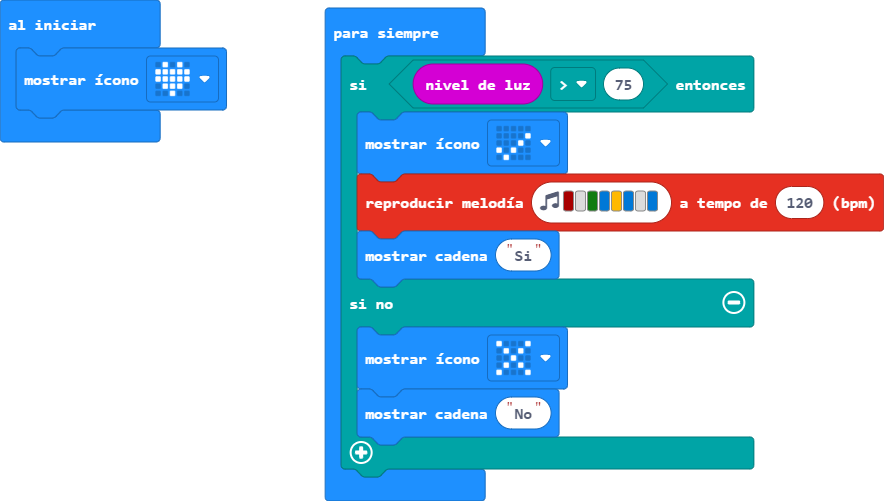
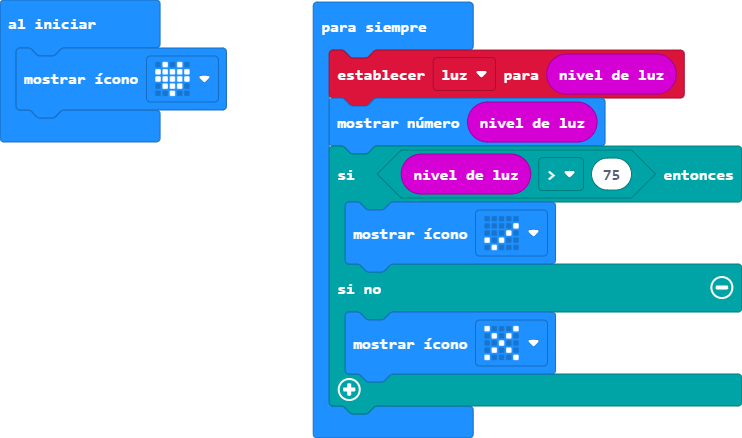
Actualizar main.blocks, main.ts

diff --git a/main.ts b/main.ts
@@ -1,11 +1,11 @@
+let luz = 0
 basic.showIcon(IconNames.Heart)
 basic.forever(function () {
+    luz = input.lightLevel()
+    basic.showNumber(input.lightLevel())
     if (input.lightLevel() > 75) {
         basic.showIcon(IconNames.Yes)
-        music.playMelody("C5 - G E A E - E ", 120)
-        basic.showString("Si")
     } else {
         basic.showIcon(IconNames.No)
-        basic.showString("No")
     }
 })
